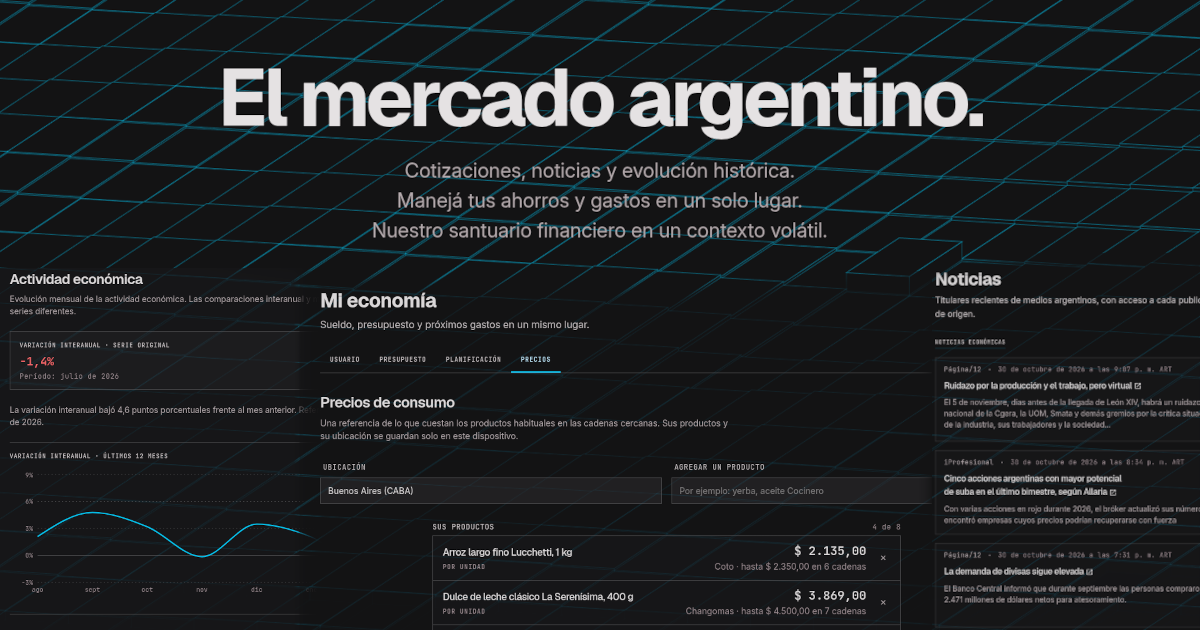
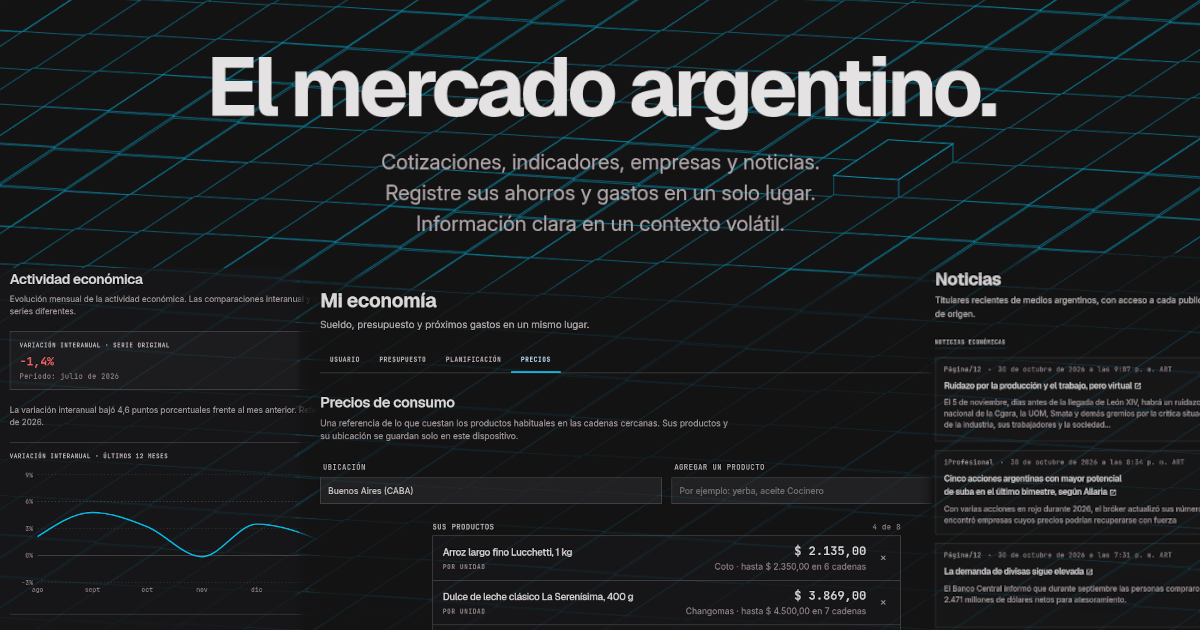
Asset change

diff --git a/app/components/features/BillingPanel.tsx b/app/components/features/BillingPanel.tsx
@@ -277,7 +277,7 @@ export const BillingPanel = ({
               : "Autorizo a Mercado Pago a debitar ARS 5.000 por mes desde la autorización, hasta que cancele."}
           </label>
           <p className="text-body-sm text-text-400">
-            Al marcar la casilla y continuar, acepta los{" "}
+            Al marcar la casilla, acepta los{" "}
             <Link
               to="/terms"
               className="text-primary-text-100 underline-offset-4 focus-visible:outline-none hocus:underline"

diff --git a/app/routes/home.tsx b/app/routes/home.tsx
@@ -41,10 +41,7 @@ export default function Home() {
               <span>Cotizaciones, indicadores, empresas y noticias.</span>{" "}
               <br />
               <span>Registre sus ahorros y gastos en un solo lugar.</span>
-              <br />{" "}
-              <span>
-                Información clara para decidir en un contexto volátil.
-              </span>
+              <br /> <span>Información clara en un contexto volátil.</span>
             </p>
           </div>
 

diff --git a/README.md b/README.md
@@ -51,7 +51,7 @@ Page data is read in React Router v8 loaders. Slow or optional data, such as the
 - [ArgentinaDatos](https://api.argentinadatos.com/) for historical series and macroeconomic indicators;
 - [Datos Argentina](https://apis.datos.gob.ar/) for EMAE activity data;
 - [SEC EDGAR](https://www.sec.gov/edgar/search/), the SEC's public filing system, for the filings and annual figures of Argentine companies listed in the US (public information that may be copied and redistributed; not yet verified against the live API);
-- [BYMA Open Data](https://open.bymadata.com.ar/), BYMA's free public feed, for CEDEAR, S&P Merval leader and index quotations, delayed about 20 minutes. It is switched off by `EQUITIES_BYMA_ENABLED` until BYMA authorizes displaying its data, and has not been verified against the live API either; see [docs/market-data.md](docs/market-data.md);
+- [BYMA Open Data](https://open.bymadata.com.ar/), BYMA's free public feed, for CEDEAR, S&P Merval leader and index quotations, delayed about 20 minutes. It is switched off by `EQUITIES_BYMA_ENABLED` until BYMA authorizes displaying its data; see [docs/market-data.md](docs/market-data.md);
 - RSS feeds from Argentine news publishers;
 - the SEPA retail-price archive and the unofficial Precios Claros API for product prices.
 
